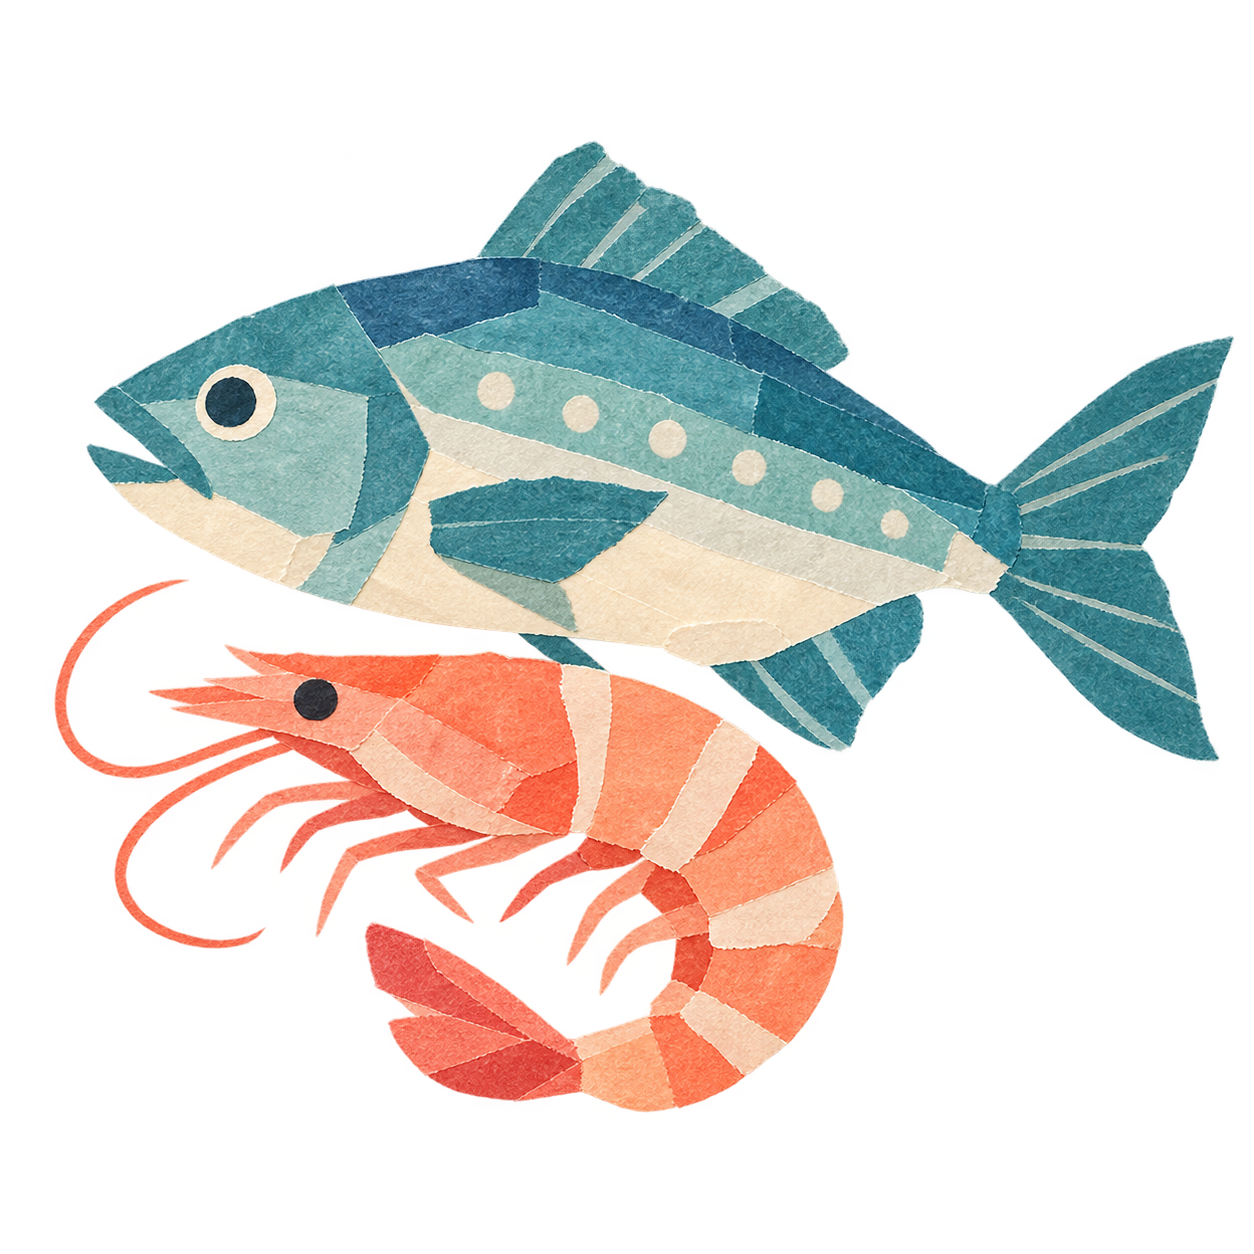
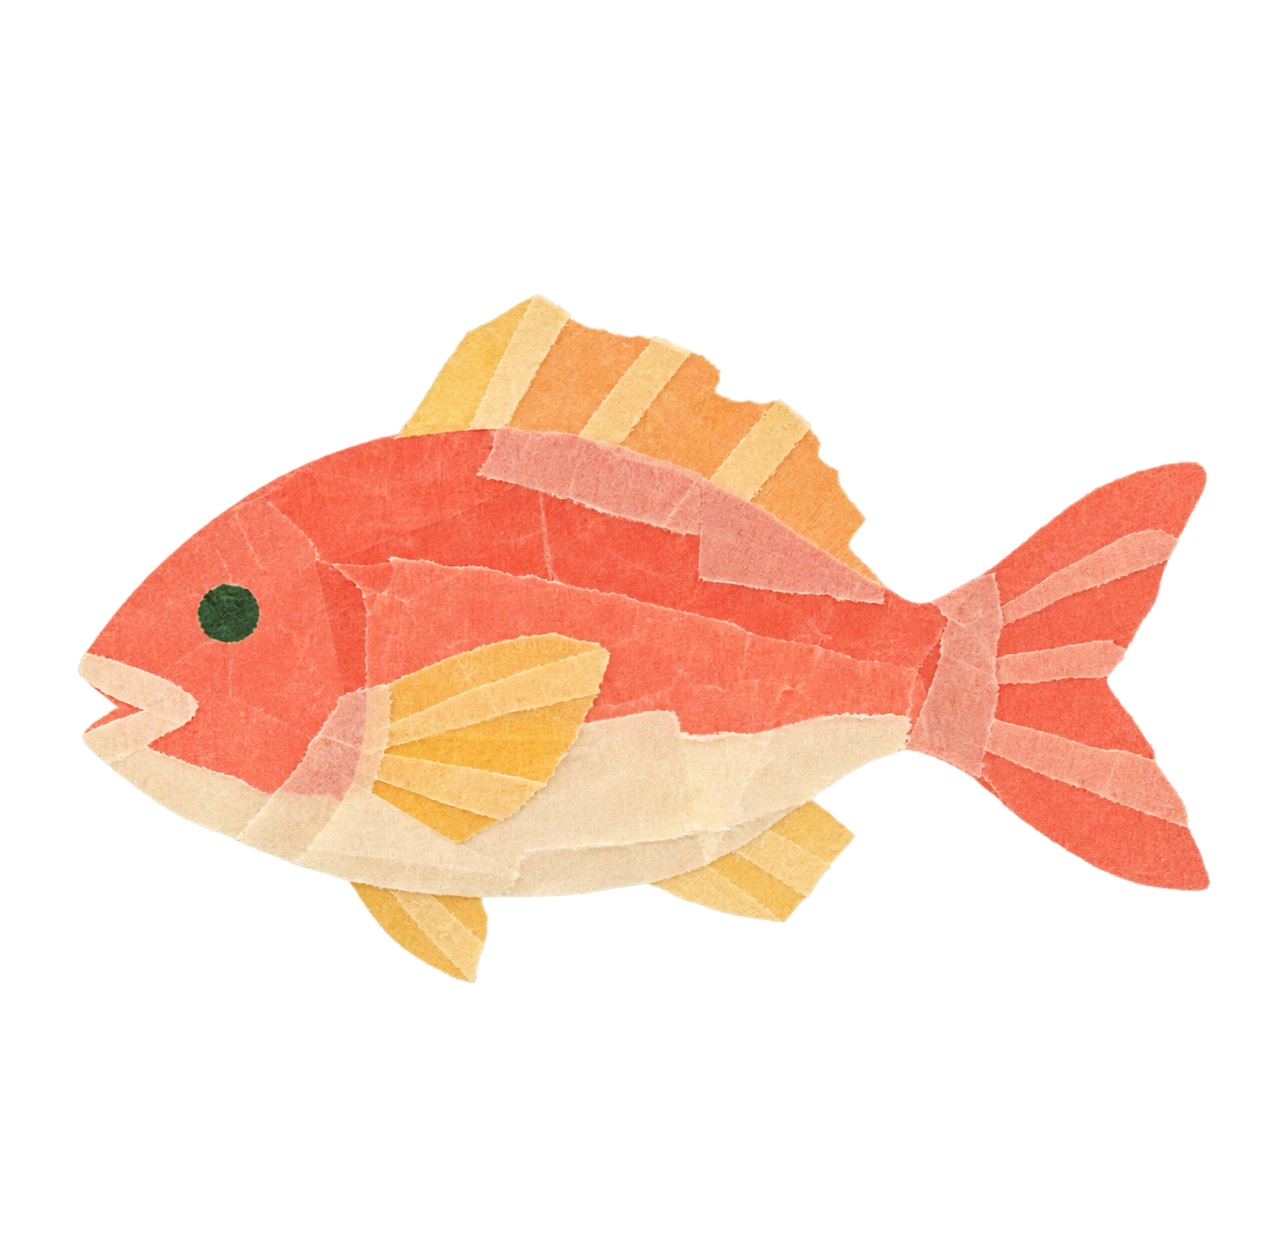
找商户分类栏：冰鲜/贝壳/门店三个新和纸图标+海鲜换珊瑚红鱼新图标+分类文字英文与图标居中

diff --git a/assets/js/app.js b/assets/js/app.js
@@ -4,7 +4,7 @@ import {spotlightGroups,currentMerchant,nextMerchant} from './spotlight.js';
 import {createMarketClient} from './market-data.js';
 const iconFiles=import.meta.glob('../icons/*.svg',{eager:true,query:'?url',import:'default'});
 const artFiles=import.meta.glob('../images/icon-*.png',{eager:true,query:'?url',import:'default'});
-const artNames={storefront:'shop','map-trifold':'map',fish:'seafood',leaf:'vegetables',egg:'meat',grains:'grain','cooking-pot':'condiments',guide:'guide','arrow-left':'arrow-warm','arrow-right':'arrow-warm',house:'home-warm'};
+const artNames={storefront:'shop','map-trifold':'map',fish:'seafood',leaf:'vegetables',egg:'meat',grains:'grain','cooking-pot':'condiments',guide:'guide','arrow-left':'arrow-warm','arrow-right':'arrow-warm',house:'home-warm',chilled:'chilled',shell:'shell',shopfront:'shopfront'};
 const $=id=>document.getElementById(id);
 const el=(tag,value='',className='')=>{const node=document.createElement(tag);node.textContent=value;node.className=className;return node;};
 const bi=(zh,en,cls='')=>{const node=el('span','','bi'+(cls?' '+cls:''));node.append(el('span',zh));if(en)node.append(el('span',en,'en'));return node;};
@@ -58,7 +58,7 @@ async function rotateSpotlight(){
  }finally{rotating=false;scheduleRotation();}
 }
 document.addEventListener('visibilitychange',scheduleRotation);
-function categoryIcon(c){const name=c.name;if(/水产|海鲜|冰鲜|贝壳/.test(name))return 'fish';if(/蔬|果/.test(name))return 'leaf';if(/肉|禽|蛋/.test(name))return 'egg';if(/粮|油|干货/.test(name))return 'grains';if(/副食|调料|熟食/.test(name))return 'cooking-pot';return 'storefront';}
+function categoryIcon(c){const name=c.name;if(name==='冰鲜')return 'chilled';if(name==='贝壳')return 'shell';if(name==='门店')return 'shopfront';if(/水产|海鲜|冰鲜|贝壳/.test(name))return 'fish';if(/蔬|果/.test(name))return 'leaf';if(/肉|禽|蛋/.test(name))return 'egg';if(/粮|油|干货/.test(name))return 'grains';if(/副食|调料|熟食/.test(name))return 'cooking-pot';return 'storefront';}
 function photo(asset,name){if(!asset?.localUrl){const p=el('div','','photo-empty');p.append(icon('storefront'),bi('暂无门店照片','No photo yet'));return p;}const img=el('img','','shop-photo');img.src=asset.localUrl;img.alt=name+'门店照片';img.addEventListener('error',()=>img.replaceWith(photo(null,name)),{once:true});return img;}
 function navigate(next,options={}){if(next==='detail'&&view!=='detail')detailReturn=view==='home'?'home':view==='map'?'map':'shops';if(next!==view){if(view==='home'||next==='home')fromView='home';else if(view==='menu')fromView='menu';}view=next;if(options.category!==undefined){category=options.category;query='';}if(options.selected!==undefined)selected=options.selected;if(options.floor!==undefined){floor=options.floor;zone='';}if(options.zone!==undefined)zone=options.zone;lastAction=Date.now();render();$('main').focus({preventScroll:true});}
 function renderBar(){const bar=$('categoryBar');bar.replaceChildren();if(!data.categories.length){bar.append(bi('商户分类将在资料发布后显示','Categories will appear once published','category-placeholder'));return;}for(const c of data.categories){const b=button(c.nameEn?bi(c.name,c.nameEn):c.name,()=>navigate('shops',{category:c.id}),'category-item'+(view==='shops'&&category===c.id?' selected':''),categoryIcon(c));b.setAttribute('aria-pressed',String(view==='shops'&&category===c.id));bar.append(b);}}

diff --git a/assets/css/market.css b/assets/css/market.css
@@ -490,6 +490,9 @@ button:focus-visible,input:focus-visible,[tabindex]:focus-visible{outline:3px so
 .shops-view .local-cat-bar{height:12vh;padding:.5vh .8vw}
 .shops-view .local-cat-bar .category-item{font-size:clamp(14px,1.15vw,24px);gap:.25vh;padding:.4vh .7vw}
 .shops-view .local-cat-bar .category-item .icon,.shops-view .local-cat-bar .category-item .art-icon{width:5.5vh;height:5.5vh;margin:0}
+/* 2026-11-18 分类按键文字与英文和图标一样左右居中 */
+.shops-view .local-cat-bar .category-item .bi{align-items:center;text-align:center;line-height:1.15}
+.shops-view .local-cat-bar .category-item .bi .en{margin-top:.2em}
 /* 菜单页四键：删右上角金色箭头（2026-11-17 用户要求） */
 .menu-actions .wayfinding .arrow{display:none}
 /* 菜单页背景：食材/海鲜贴纸已删除（2026-11-17 用户要求，汉白玉底之上、按钮之下的贴纸全部移除） */
